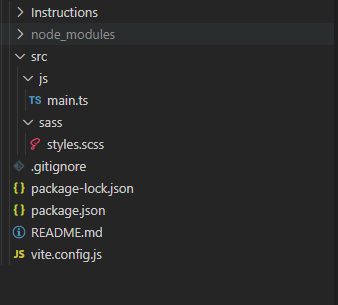
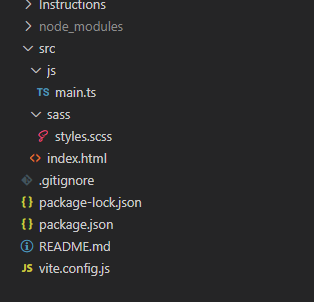
fixed missing file

Changed region(s): [[0.0287, 0.0, 0.4586, 0.9238]]

diff --git a/Instructions/README.md b/Instructions/README.md
@@ -54,7 +54,7 @@ For this lab you will write a responsive website that works well both on mobile 
    Will allow us to use github pages for hosting. 
 7. Add the following folders and files. For adding files, you can either use `touch` or `code` depending on your system. For example, to create an empty main.ts file, you can use `code src/js/main.ts` then save the empty file.
    * Add directories: src, src/js, src/sass
-   * Create files: src/js/main.ts, src/sass/styles.scss, vite.config.js
+   * Create files: src/js/main.ts, src/sass/styles.scss, src/index.html, vite.config.js
 
 By the end of step seven, your project directory should look like the following.
 
